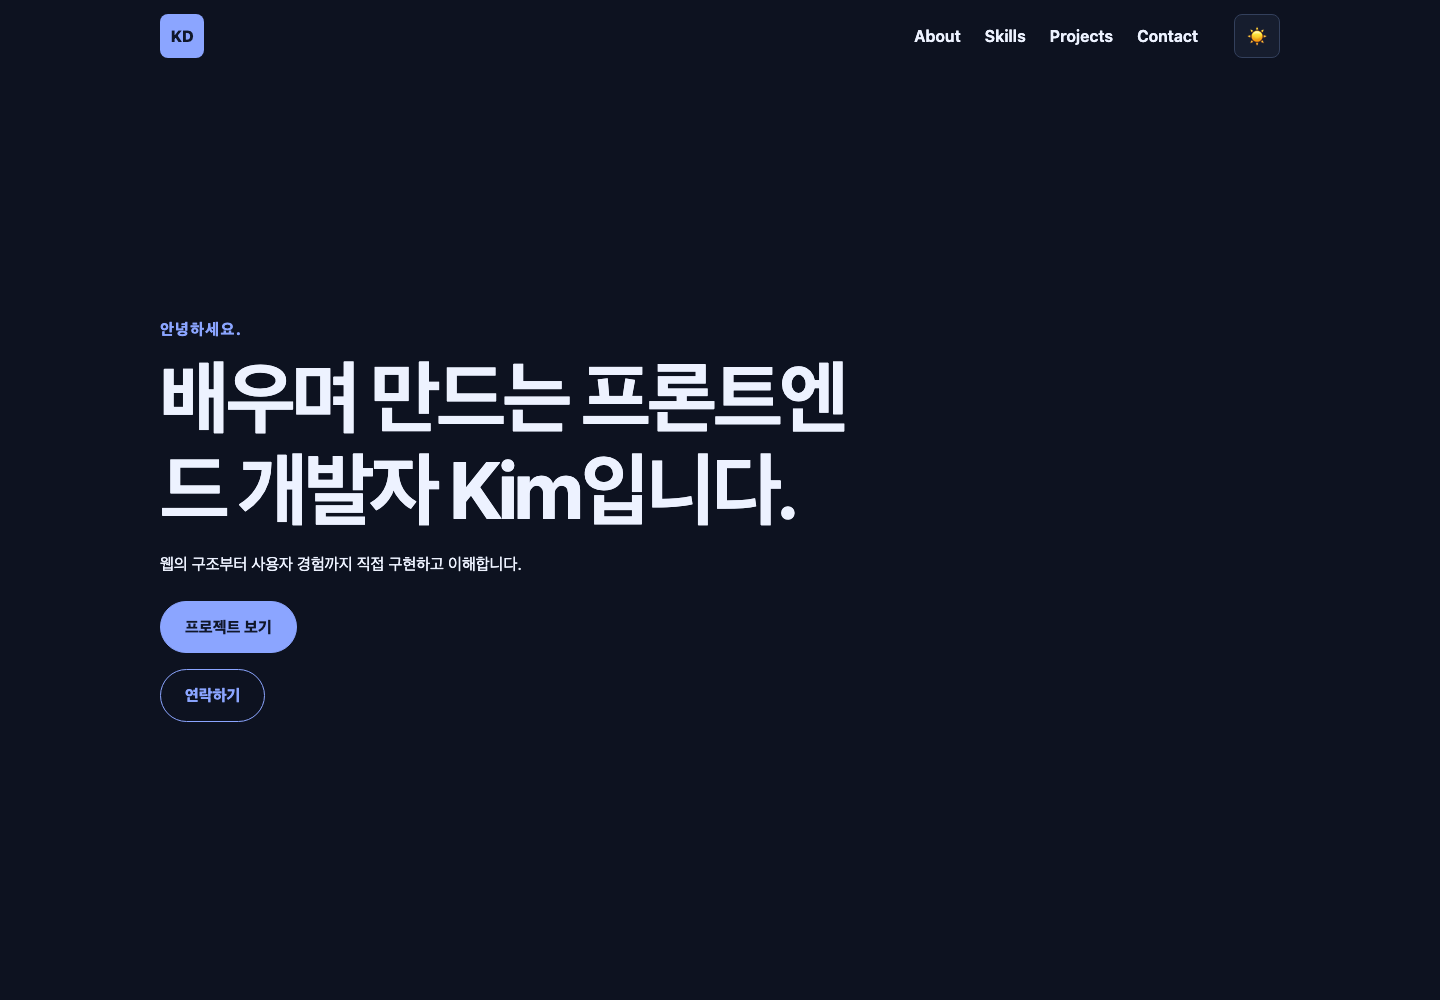
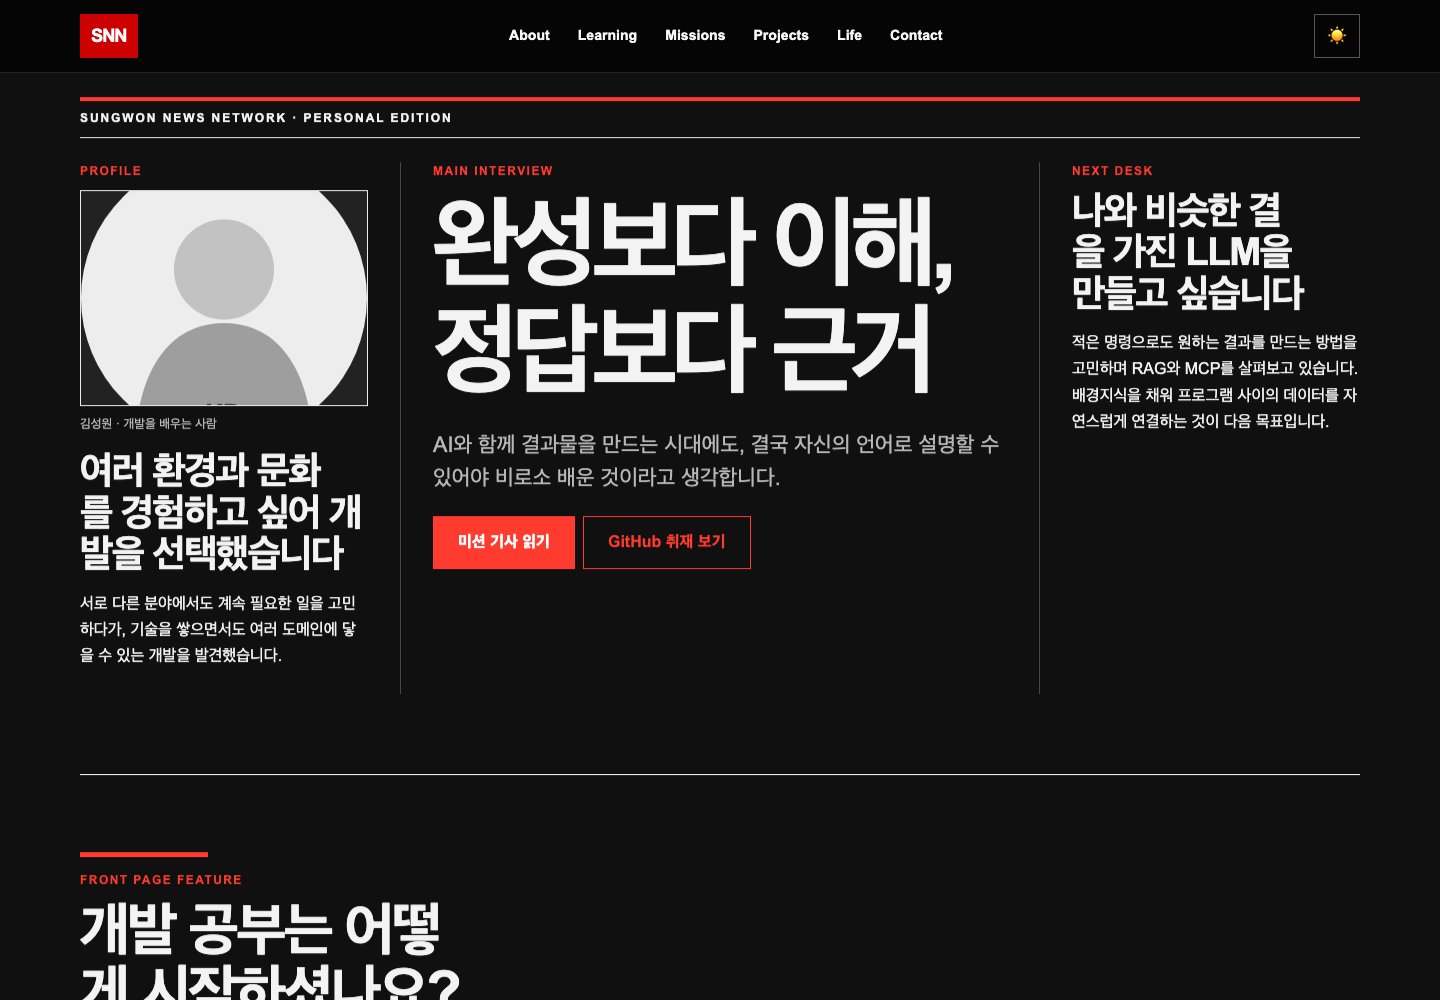
docs: verify SNN news resume release

diff --git a/index.html b/index.html
@@ -8,12 +8,13 @@
       content="김성원의 개발 학습과 프로젝트, 관심사를 인터뷰 기사로 전하는 개인 뉴스 사이트"
     >
     <title>SNN | Sungwon News Network</title>
-    <link rel="stylesheet" href="css/style.css?v=3">
+    <link rel="icon" href="images/profile-placeholder.svg" type="image/svg+xml">
+    <link rel="stylesheet" href="css/style.css?v=4">
     <script src="js/navigation.js?v=1" defer></script>
-    <script src="js/theme.js?v=1" defer></script>
+    <script src="js/theme.js?v=2" defer></script>
     <script src="js/scroll.js?v=1" defer></script>
-    <script src="js/contact.js?v=1" defer></script>
-    <script src="js/projects.js?v=6" defer></script>
+    <script src="js/contact.js?v=2" defer></script>
+    <script src="js/projects.js?v=7" defer></script>
   </head>
   <body>
     <header class="site-header">

diff --git a/README.md b/README.md
@@ -1,63 +1,70 @@
-# Vanilla Frontend Portfolio
+# SNN — Sungwon News Network
 
-외부 프레임워크 없이 HTML, CSS, JavaScript만으로 만든 반응형 학습용 포트폴리오입니다. 브라우저의 이벤트가 상태를 바꾸고, 그 상태가 DOM과 화면에 반영되는 흐름을 직접 구현하는 것이 핵심입니다.
+김성원의 개발 학습, Codyssey 미션, GitHub 프로젝트, 관심사를 뉴스 기사처럼 읽을 수 있게 만든 개인 자기소개 사이트입니다. 외부 프레임워크 없이 HTML, CSS, JavaScript로 문서 구조, 반응형 배치, 이벤트와 상태, 네트워크 상태를 직접 구현한 학습 프로젝트입니다.
 
-## 주요 기능
+## 지면 구성
 
-* Header, Hero, About, Skills, Projects, Contact, Footer의 시맨틱 구조
-* 320px 모바일부터 데스크톱까지 대응하는 모바일 퍼스트 레이아웃
-* 햄버거 메뉴, 내부 링크 스크롤, 스크롤 반응형 Header와 맨 위 버튼
-* `localStorage`에 선택을 유지하는 라이트/다크 테마
-* 입력 중 및 제출 시 동작하는 문의 폼 검증
-* GitHub REST API 기반 프로젝트 로딩·성공·빈 결과·오류·재시도 UI
-* 키보드 포커스 표시, ARIA 상태, 모션 감소 설정 대응
+* Front Page: 개발을 시작한 이유와 학습 기준
+* Learning: Codyssey를 선택한 이유와 자신의 언어로 설명하는 학습법
+* Codyssey Report: Shell/Docker, Python Quiz, Tiny NPU 미션 회고
+* Skills Desk: HTML, CSS, JavaScript, Git, Python, Docker의 사용 맥락
+* GitHub Projects: 네 개 저장소의 README 미리보기와 인터뷰 기사
+* Life & Culture: 러닝, 《광마회귀》, 헤드폰과 음악 감상
+* Send a Tip: 입력값을 전송하지 않는 클라이언트 폼 검증 데모
 
-## 기술과 구조
+## 구조와 기술 선택
 
 ```text
 .
-├── index.html                    # 문서 구조와 접근성 관계
-├── css/style.css                 # 디자인 토큰, 반응형 레이아웃, 테마
+├── index.html                    # 시맨틱 문서와 접근성 관계
+├── css/style.css                 # SNN 토큰, Day/Night, 반응형 레이아웃
 ├── js/
 │   ├── navigation.js             # 모바일 메뉴와 내부 탐색
-│   ├── theme.js                  # 테마 상태와 저장
-│   ├── scroll.js                 # 스크롤 파생 UI와 관찰자
-│   ├── contact.js                # 폼 값·오류 상태와 검증
-│   └── projects.js               # GitHub API 요청 상태와 카드 렌더링
-├── images/profile-placeholder.svg
+│   ├── theme.js                  # Day/Night 상태와 localStorage
+│   ├── scroll.js                 # Header, 맨 위 버튼, reveal 상태
+│   ├── contact.js                # 폼 값·오류·성공 상태
+│   └── projects.js               # 로컬 편집 데이터 + GitHub API 병합
+├── images/projects/              # 1200 × 675 README 미리보기
+├── images/screenshots/           # 검증된 Day, mobile, Night 화면
 └── docs/learning/                # 설계 결정, 체크포인트, 학습 현황
 ```
 
-애플리케이션 라이브러리, CSS 프레임워크, 번들러 없이 최신 브라우저가 원본 파일을 직접 실행합니다. 각 스크립트는 `defer`와 IIFE를 사용해 HTML 파싱 이후 독립적으로 초기화됩니다.
+각 스크립트는 `defer` 된 IIFE로 독립적으로 초기화됩니다. 빌드 도구가 없어 브라우저가 원본 HTML, CSS, JavaScript를 그대로 요청하고 실행합니다.
+
+### 프로젝트 데이터 흐름
+
+`projects.js`는 로컬의 안정적인 기사 순서·감상·이미지와 GitHub API의 변할 수 있는 설명·언어·별·업데이트 시각을 저장소 이름으로 합칩니다.
+
+```text
+초기 로드/재시도 → loading → GitHub 응답 → 편집 순서 merge → success | empty | error → DOM
+```
+
+화면은 `loading`, `success`, `empty`, `error` 네 요청 상태를 표현합니다. `403` 오류는 GitHub API 요청 한도 안내를 따로 보여주고, 오류 상태의 재시도 버튼은 같은 로드 함수를 다시 실행합니다. 원격 문자열은 HTML escape 후 렌더링하고, HTTPS `github.com` 이외의 URL은 안전한 프로필 링크로 바꿍니다.
+
+### Day/Night와 Send a Tip
+
+Day/Night Edition은 `<html>`의 `data-theme`이 표현의 단일 기준입니다. 선택은 `localStorage`에 저장되지만, 저장소가 막혀도 현재 페이지의 테마 전환은 계속 동작합니다.
+
+Send a Tip은 `preventDefault()` 후 브라우저에서만 필수값과 이메일 형식을 확인합니다. 서버나 이메일 서비스로 입력값을 전송하지 않으며, 성공 문구도 이 사실을 명시합니다.
 
 ## 로컬 실행
-
-VS Code에서는 프로젝트 루트를 열고 Live Server의 **Open with Live Server**를 실행합니다. 별도 확장 없이 확인하려면 다음과 같이 정적 서버를 사용할 수 있습니다.
 
 ```bash
 python3 -m http.server 4173
 ```
 
-브라우저에서 `http://localhost:4173`을 엽니다. HTML 파일을 `file://`로 직접 여는 것보다 HTTP 서버를 사용하는 편이 실제 배포와 같은 URL·요청·응답·origin 환경을 제공합니다.
-
-## 교체할 포트폴리오 정보
-
-* `index.html`의 이름, 소개, Footer, 소셜 링크를 본인 정보로 바꿉니다.
-* `images/profile-placeholder.svg`를 본인 이미지로 교체하고 `alt`, `width`, `height`를 함께 조정합니다.
-* `js/projects.js`의 `GITHUB_USERNAME`을 본인 GitHub 사용자명으로 변경합니다.
-
-현재 `GITHUB_USERNAME`은 교체가 쉬운 공개 예시 계정 `octocat`입니다. 인증 없는 GitHub API는 IP 기준 시간당 60회 제한이 있으므로 반복 새로고침 시 `403` 안내가 나타날 수 있습니다. 토큰이나 비밀 키는 브라우저 코드에 넣지 않습니다.
+`http://localhost:4173`을 엽니다. `file://` 대신 HTTP 서버를 쓰면 배포와 비슷한 URL·요청·응답·origin 환경에서 GitHub API까지 확인할 수 있습니다.
 
 ## 동작 기준값
 
 | 동작 | 기준 |
 | --- | ---: |
-| Header 스크롤 스타일 | `60px` 초과 |
-| 맨 위 버튼 표시 | `300px` 초과 |
+| Header 스크롤 스타일 | `60px` 이상 |
+| 맨 위 버튼 표시 | `300px` 이상 |
 | Intersection Observer | `0.2` |
 | 태블릿 breakpoint | `768px` |
 | 데스크톱 breakpoint | `1024px` |
-| GitHub 저장소 표시 수 | `6` |
+| GitHub API 요청 상한 | `100` repositories |
 
 ## 검증
 
@@ -66,32 +73,34 @@ for file in js/*.js; do node --check "$file"; done
 git diff --check
 rg -n "onclick=|oninput=|onsubmit=|style=" index.html js css
 rg -n "\\bvar\\b" index.html js
+rg -n "Developing Story|octocat|Kim Developer|>KD<" index.html js css
 ```
 
-브라우저에서는 다음을 확인합니다.
+2026-09-29 로컬 릴리스 후보에서 확인한 결과입니다.
 
-1. 320px, 768px, 1024px 이상에서 가로 넘침과 읽기 어려운 레이아웃이 없는지 확인합니다.
-2. 키보드만으로 링크, 메뉴, 테마, 폼, 재시도, 맨 위 버튼을 사용할 수 있는지 확인합니다.
-3. 테마 선택이 새로고침 후 유지되는지 확인합니다.
-4. 폼의 빈 값, 잘못된 이메일, 정상 제출 결과를 확인합니다.
-5. Network에서 로컬 자원과 GitHub API의 상태 및 응답을 확인합니다.
-
-로컬 Lighthouse 기준 점수는 Performance 99, Accessibility 100, SEO 100입니다. 로컬 Python 정적 서버의 캐시 정책과 응답 지연은 실제 GitHub Pages 배포 후 다시 측정합니다.
+* 320px: 단일 열, 햄버거 메뉴, 프로젝트 1열, 가로 overflow `0`
+* 768px: 주요 기사 2열, 프로젝트 2열, 데스크톱 탐색, 가로 overflow `0`
+* 1024px: `0.8fr / 1.6fr / 0.8fr` 리드 3열, 미션·프로젝트 3열, 가로 overflow `0`
+* 키보드: 모바일 메뉴, 내부 링크, 테마, 폼, 맨 위 버튼 동작
+* 프로젝트: 실제 4개, 누락, 빈 응답, 404, 403, 네트워크 거부, 재시도, 악성 문자열, 깨진 이미지
+* 접근성: `h1` 1개, 건너뛴 단계 없음, 구획 label, 이미지 alt/크기, 폼 label/description, live region
+* 모션 감소: media query 일치, 전환 `0.01ms`, reveal 불투명도 `1`, 위치 이동 없음
+* Lighthouse: Performance `100`, Accessibility `100`, Best Practices `100`, SEO `100`; 콘솔 오류·깨진 요청 `0`, 이미지 크기 audit 통과, CLS `0.000008`
 
 ## 배포
 
-GitHub Pages: [https://k-sungwon.github.io/web-resume-vanilla/](https://k-sungwon.github.io/web-resume-vanilla/)
+현재 GitHub Pages 주소: [https://k-sungwon.github.io/web-resume-vanilla/](https://k-sungwon.github.io/web-resume-vanilla/)
 
-`main` 브랜치의 저장소 루트를 GitHub Pages가 정적 파일로 배포합니다. HTTPS 운영 주소에서 상대 CSS/JavaScript/SVG 경로, GitHub API 카드 6개, 테마 복원, 폼 검증을 다시 확인했습니다.
+`main` 브랜치의 저장소 루트를 GitHub Pages가 HTTPS로 정적 배포합니다. 이 브랜치의 SNN 릴리스 후보는 `main`에 통합하고 Pages 배포가 완료된 뒤 운영 URL에 반영됩니다.
 
-### 데스크톱
+### Desktop · Day Edition
 
-![데스크톱 포트폴리오 화면](images/screenshots/desktop.png)
+![SNN 데스크톱 Day Edition](images/screenshots/desktop.png)
 
-### 모바일
+### Mobile · Day Edition
 
-![모바일 포트폴리오 화면](images/screenshots/mobile.png)
+![SNN 모바일 Day Edition](images/screenshots/mobile.png)
 
-### 다크 모드
+### Desktop · Night Edition
 
-![다크 모드 포트폴리오 화면](images/screenshots/dark.png)
+![SNN 데스크톱 Night Edition](images/screenshots/dark.png)

diff --git a/docs/learning/checkpoints.md b/docs/learning/checkpoints.md
@@ -497,3 +497,22 @@ Personal interpretation belongs in local source because it should not disappear 
 The data flow is `load/retry event → loading state → GitHub response → editorial-order merge → success/empty/error state → DOM render`. A missing repository is filtered out after the merge, while a failed request keeps the page usable and offers a retry instead of deleting the whole section.
 
 Remote text is escaped before it enters `innerHTML`, and repository links are accepted only when they use HTTPS on `github.com`. Those boundaries matter because public API data is still external input, not trusted HTML.
+
+⸻
+
+## Milestone 9.5 — SNN release candidate verification
+
+### What Changed
+
+* Verified Day and Night Editions at 320px, 768px, and 1024px with zero horizontal overflow and the intended one-, two-, and three-column transitions.
+* Verified keyboard operation for the mobile menu, internal navigation, theme, Send a Tip fields and submit action, and scroll-top control.
+* Confirmed one `h1`, no skipped heading level, eight labelled sections, meaningful image alternatives and dimensions, form label/description relationships, and two polite live regions.
+* Added an explicit local SVG favicon after Lighthouse exposed the implicit `/favicon.ico` request as a 404 and console error.
+* Replaced the README screenshots with SNN desktop Day, mobile Day, and desktop Night captures and documented the current architecture and verified behavior.
+* Measured Lighthouse 100 for Performance, Accessibility, Best Practices, and SEO with no console error, failed resource, or unsized image audit failure and a CLS of `0.000008`.
+
+### Guided Explanation
+
+The release review follows the same path as the running web: source files are parsed and requested, CSS creates layout and themes, JavaScript connects events to state and DOM updates, and external GitHub data joins the local article model. Static checks catch source-level mistakes; browser matrices catch viewport and interaction mistakes; Lighthouse observes the integrated result.
+
+The deployment chain remains `source → Git commit → GitHub main → Pages → DNS → TLS → HTTP → DOM/CSSOM → layout/paint → pixels`. This branch has completed the source-to-local-browser portion. The public Pages result must be checked only after the user chooses and completes branch integration.

diff --git a/docs/learning/status.md b/docs/learning/status.md
@@ -2,11 +2,11 @@ Project Learning Status
 
 Current Milestone
 
-Milestone 9 / SNN personal news redesign
+Milestone 9.5 / SNN release candidate verified
 
 Current Task
 
-Run integrated accessibility, responsive, and release-candidate verification.
+Review the completed branch and choose the integration method before redeployment.
 
 Completed
 
@@ -74,17 +74,25 @@ Completed
 * Four public README previews captured locally at 1200 × 675
 * Curated `k-sungwon` project stories merged with live GitHub API metadata in editorial order
 * Loading, empty, generic error, 403, retry, missing-repository, hostile-data, and broken-media states verified
+* 320px, 768px, and 1024px Day/Night responsive matrix passed with zero horizontal overflow
+* Keyboard menu, section navigation, theme, form, and scroll-top flows verified
+* Heading, landmark, image, form, live-region, and motion-reduction accessibility checks passed
+* Missing favicon diagnosed from Lighthouse and fixed with an explicit local SVG resource
+* Lighthouse measured 100/100/100/100 with no console error, failed resource, or unsized image failure
+* SNN desktop Day, mobile Day, and desktop Night screenshots captured and visually reviewed
+* README rewritten for the SNN purpose, architecture, states, verification, and deployment boundary
 
 Next
 
-1. Run integrated verification and prepare the release branch
-2. Review and choose the branch integration method before redeployment
+1. Review the completed branch
+2. Choose whether to merge, push/PR, or keep the branch before redeployment
+3. Verify the public Pages URL only after the selected integration
 
 Learning NOW
 
 * Mapping news-editorial meaning to semantic HTML
 * Separating static personal content from live GitHub metadata
-* Verifying the complete SNN page as one release candidate
+* Reviewing evidence before branch integration and redeployment
 
 Learning CHECKPOINT
 
